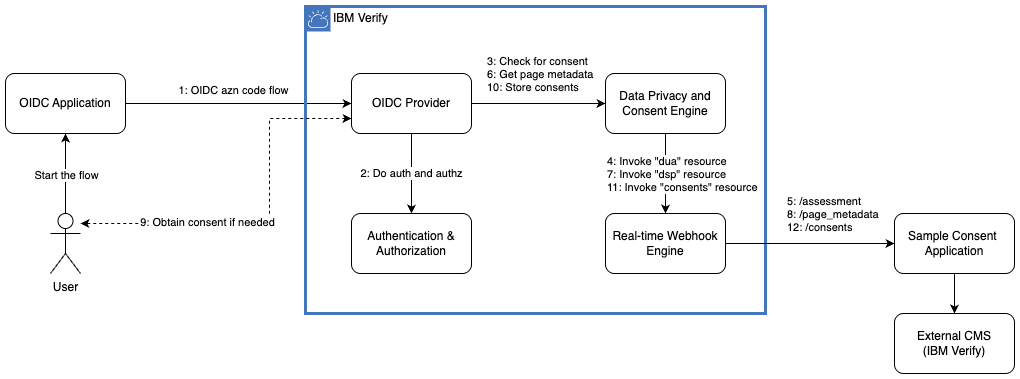
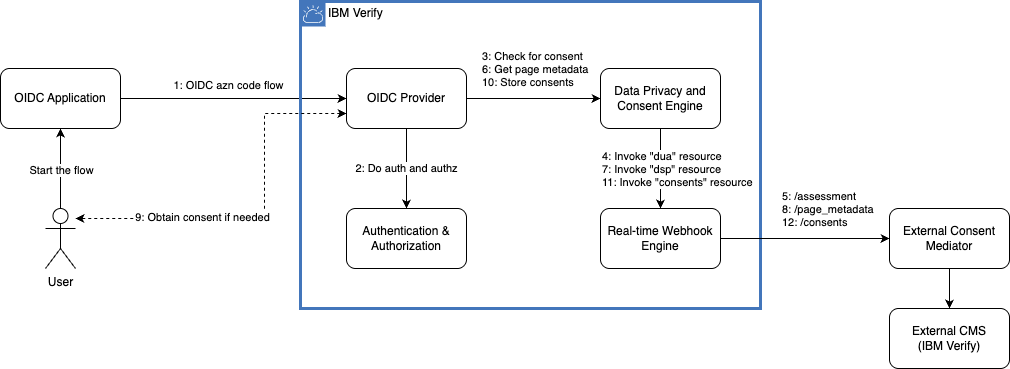
doc: update documentation to focus on IBM Verify as CMS

diff --git a/README.md b/README.md
@@ -1,11 +1,10 @@
 # IBM Verify External Consent Mediator App
 
-The IBM Verify External Consent Mediator App is a Node.js application that serves privacy and consent management endpoints based on the [OpenAPI specification for external consent providers](https://docs.verify.ibm.com/verify/page/api-documentation). It is intended to be a sample external consent management service or proxy, depending on which implementation is in use.
+The IBM Verify External Consent Mediator App is a Node.js application that serves privacy and consent management endpoints based on the [OpenAPI specification for external consent providers](https://docs.verify.ibm.com/verify/page/api-documentation). It is intended to be a sample external consent management mediator or proxy that uses the [IBM Verify Privacy SDK](https://www.npmjs.com/package/@ibm-verify/privacy) to integrate with a IBM Verify tenant to manage privacy and consent.
 
-There are two implementations:
+An illustration of this implementation is as below.
 
-1. A basic consent provider that uses in-memory storage for consent data.
-2. A consent provider that uses a configured IBM Verify tenant as the privacy and consent management service.
+![](configuring-verify/images/architecture.png)
 
 ## Features
 
@@ -21,7 +20,7 @@ There are two implementations:
 - Request validation
 - Error handling
 - In-memory storage for basic endpoints (for demonstration purposes)
-- IBM Verify Privacy SDK integration for verify endpoints
+- IBM Verify Privacy SDK integration for Verify endpoints
 
 ## Installation
 

diff --git a/configuring-verify/README.md b/configuring-verify/README.md
@@ -1,6 +1,6 @@
 # Configuring IBM Verify for External Consent Providers
 
-This guide walks you through configuring IBM Verify to use this Node.js application as an external consent provider. Use the accompanying Postman collection (`External consent providers.postman_collection.json`) for API requests.
+This guide walks you through configuring IBM Verify to use this Node.js application as an external consent provider. Use the accompanying Postman collection (`external-consent-providers.postman_collection.json`) for API requests.
 
 ## Overview
 
